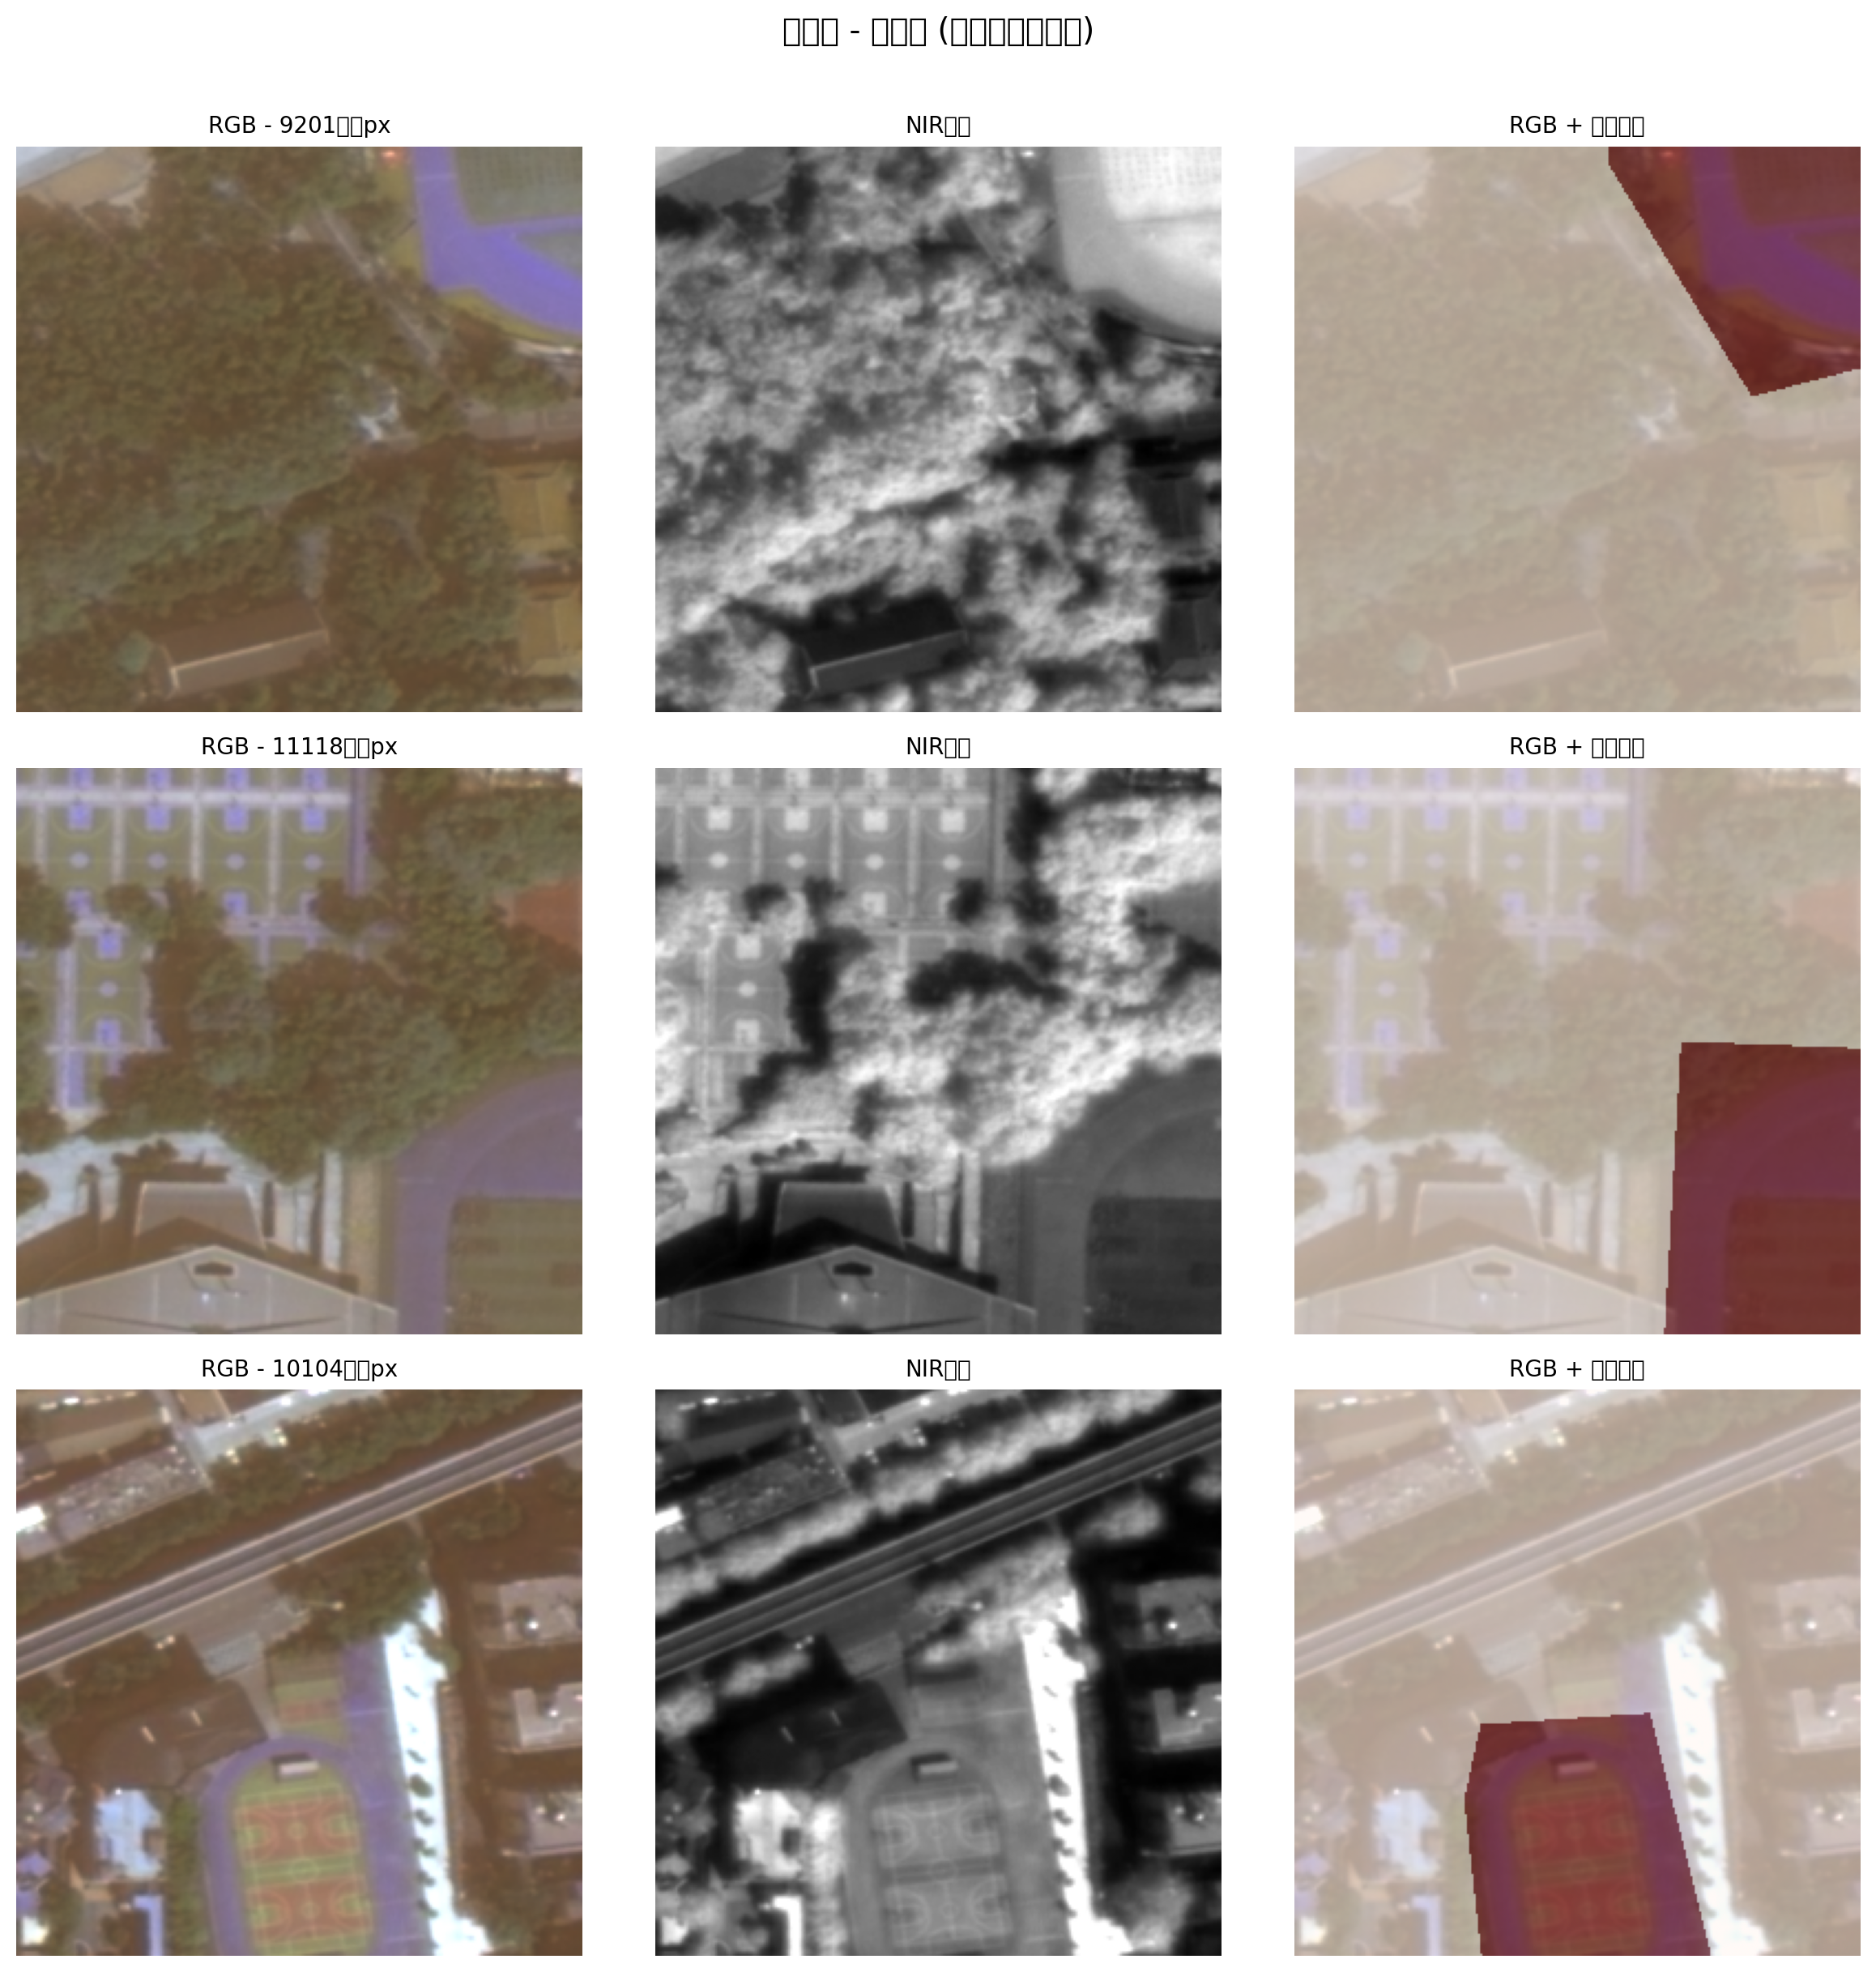
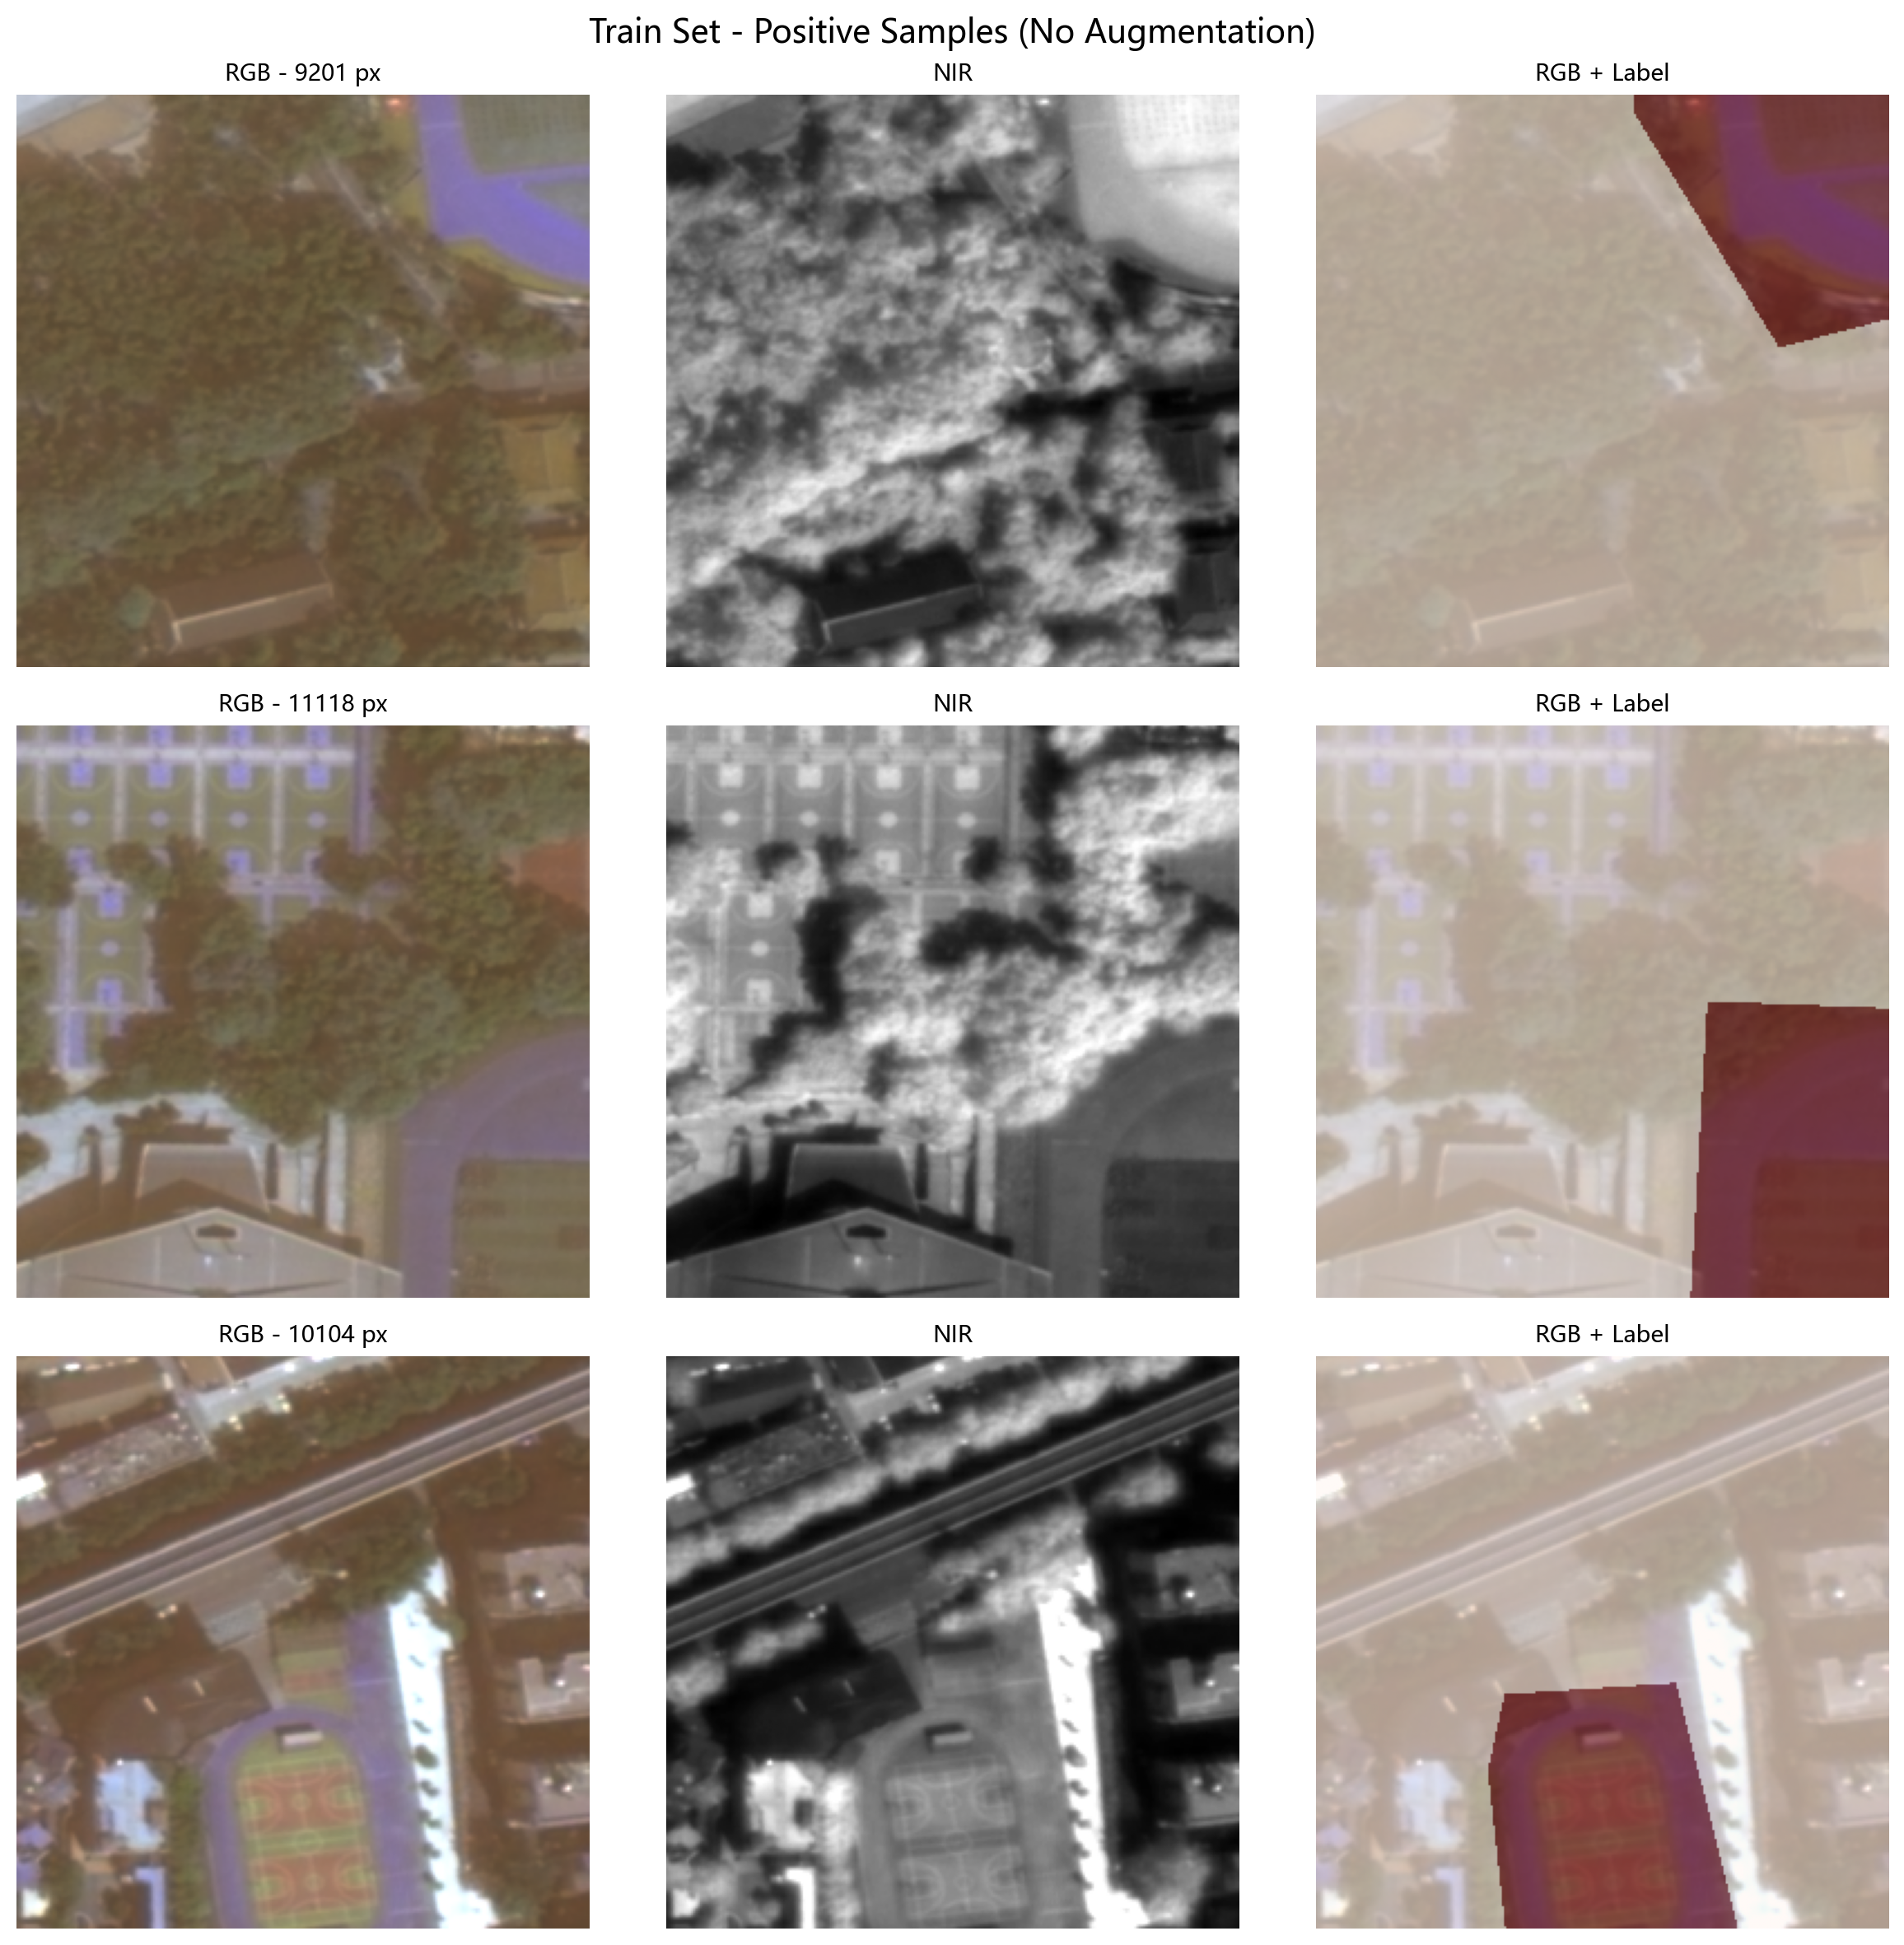
Update visualizations and add experiment report

diff --git a/实验报告-遥感影像操场检测.md b/实验报告-遥感影像操场检测.md
@@ -1,0 +1,263 @@
+# 实验报告：基于深度学习的遥感影像操场检测
+
+> **武汉大学遥感信息工程学院** | 遥感深度学习实践 | 2026年
+
+---
+
+## 摘要
+
+本实验基于珞珈三号II MSS遥感影像（4波段：Red/Green/Blue/NIR，空间分辨率约0.5m），采用U-Net语义分割模型，对武汉市区域的操场（运动场）进行自动化提取。标注数据包含75个矢量多边形面要素，经栅格化、瓦片切分后构建二分类语义分割数据集（392训练/100验证，256×256像素）。使用手写LightweightUNet模型在昇腾910ProB NPU上训练100轮，最终验证集**IoU=0.4237，F1=0.5952，Precision=0.7473，Recall=0.4945**。实验表明深度学习在操场检测任务上具有可行性，但受限于标注数量，召回率仍有较大提升空间。
+
+---
+
+## 一、任务概述
+
+### 1.1 任务目标
+
+基于珞珈三号II MSS多光谱遥感影像和人工标注的操场矢量数据，设计并训练一个深度学习语义分割模型，实现影像中操场的自动化检测。
+
+### 1.2 数据概况
+
+| 项目 | 详情 |
+|------|------|
+| 遥感影像 | 珞珈三号II MSS，28936×29425像素，4波段(R/G/B/NIR)，uint8 |
+| 空间分辨率 | ~0.5m/像素 |
+| 坐标系 | EPSG:4326 |
+| 覆盖范围 | 武汉市，约14.7km×16.7km |
+| 标注数据 | 75个MultiPolygon面要素，标注类别为"操场" |
+| 标注格式 | ESRI Geodatabase (.gdb) |
+
+---
+
+## 二、数据预处理
+
+### 2.1 矢量栅格化
+
+使用`rasterio.features.rasterize`将75个矢量多边形转为与TIF影像完全对齐的二值掩膜。操场像素值=1，背景=0。掩膜尺寸与原始影像一致（29425×28936像素），操场像素共2,922,817个，占总像素的0.34%。
+
+```
+矢量多边形 (75个) → rasterio.rasterize() → label_mask.tif
+  output_shape: (28936, 29425)  ← 与TIF完全对齐
+  fill=0, 操场=1,  dtype=uint8
+```
+
+### 2.2 瓦片切分与数据集划分
+
+使用256×256滑动窗口（stride=256，无重叠）从大图和掩膜中切分瓦片。共生成12,882个瓦片，其中仅246个（1.9%）含操场像素。
+
+**正负样本平衡策略**：保留全部246个含操场的正样本，从12,636个背景瓦片中随机采样等量（246个）作为负样本，形成1:1平衡数据集。
+
+| 数据集 | 正样本 | 负样本 | 总计 |
+|--------|--------|--------|------|
+| 训练集 | 196 | 196 | **392** |
+| 验证集 | 50 | 50 | **100** |
+
+数据以`.npy`格式保存：训练图像为`(4, 256, 256)` float32数组，掩膜为`(256, 256)` uint8二值数组。
+
+---
+
+## 三、模型设计
+
+### 3.1 模型架构
+
+采用**LightweightUNet**模型，经典的编码器-解码器结构配合跳跃连接：
+
+```
+输入 (4, 256, 256)
+  │
+  ├─ Encoder: DoubleConv(4→64) → MaxPool → DoubleConv(64→128) → MaxPool
+  │           → DoubleConv(128→256) → MaxPool → DoubleConv(256→512) → MaxPool
+  │
+  ├─ Bottleneck: DoubleConv(512→1024)
+  │
+  └─ Decoder: ConvTranspose2d + DoubleConv (×4层)
+     跳跃连接 ← 编码器对应层特征图拼接
+  │
+  └─ Conv2d(64→1) → Sigmoid
+  │
+输出 (1, 256, 256) 概率图 [0,1]
+```
+
+| 参数 | 值 |
+|------|-----|
+| 总参数量 | 31,038,209 |
+| 输入通道 | 4 (R/G/B/NIR) |
+| 输出 | 1 (Sigmoid概率) |
+| 基础特征数 | [64, 128, 256, 512] |
+| DoubleConv | (Conv3×3→BN→ReLU)×2 |
+
+### 3.2 为什么不用预训练模型
+
+尝试了`segmentation_models_pytorch`的U-Net+ResNet34（ImageNet预训练），但`torchvision::nms`算子在昇腾NPU版PyTorch中不存在，导致无法加载。因此采用纯PyTorch手写U-Net，在NPU上可直接运行。
+
+### 3.3 4波段输入处理
+
+归一化策略：各波段分别标准化
+
+```python
+mean = [0.485, 0.456, 0.406, 0.350]  # RGB(ImageNet) + NIR(均值)
+std  = [0.229, 0.224, 0.225, 0.150]
+image = (image / 255.0 - mean) / std
+```
+
+---
+
+## 四、训练配置
+
+### 4.1 超参数
+
+| 超参数 | 值 | 说明 |
+|--------|-----|------|
+| Batch Size | 16 | NPU单卡可承受 |
+| Epochs | 100 | 实际86轮达到最优 |
+| Learning Rate | 3e-5 | 低于默认1e-4，防collapse |
+| Optimizer | AdamW | weight_decay=1e-5 |
+| LR Scheduler | ReduceLROnPlateau | mode=max, factor=0.5, patience=10 |
+| Early Stopping | patience=20 | 未触发(最佳在epoch 86) |
+| Gradient Clipping | max_norm=1.0 | 防止NPU数值不稳定导致梯度爆炸 |
+| 损失函数 | 0.5×Dice + 0.5×BCE | 组合损失处理正负样本不平衡 |
+
+### 4.2 数据增强
+
+训练时使用`albumentations`进行在线增强：
+
+| 增强方式 | 概率 |
+|----------|------|
+| 水平翻转 | 0.5 |
+| 垂直翻转 | 0.5 |
+| 随机90°旋转 | 0.5 |
+| 亮度/对比度调整 | 0.3 |
+| 高斯模糊 | 0.2 |
+| 高斯噪声 | 0.2 |
+
+验证集仅做归一化，不做增强。
+
+### 4.3 训练环境
+
+| 项目 | 配置 |
+|------|------|
+| 服务器 | 华为昇腾910ProB NPU ×1 |
+| CPU | 16核 / 64GB内存 |
+| PyTorch | 2.4.0 (NPU适配版) |
+| torch_npu | 2.4.0 |
+| CANN | 8.3.RC1 |
+
+---
+
+## 五、实验结果
+
+### 5.1 验证集评估
+
+| 指标 | 值 | 说明 |
+|------|-----|------|
+| **IoU** | **0.4237** | 预测与真值重叠42.4% |
+| **Precision** | **0.7473** | 预测为操场的像素中74.7%正确 |
+| **Recall** | **0.4945** | 真实操场像素中找回49.5% |
+| **F1-Score** | **0.5952** | 综合衡量精确率和召回率 |
+| Pixel Accuracy | 0.9549 | 整体像素准确率（背景多，虚高） |
+
+混淆矩阵统计：
+
+|  | 预测=正 | 预测=负 |
+|--|---------|---------|
+| **真值=正** | TP: 217,501 | FN: 222,328 |
+| **真值=负** | FP: 73,541 | TN: 6,040,230 |
+
+### 5.2 训练曲线
+
+![训练曲线](output/visualizations/training_curves.png)
+
+**Loss曲线（左）**：训练损失和验证损失均稳定下降。前30轮收敛较快，之后趋于平缓。验证损失在epoch 86附近达到最低点后略有回升，表明模型开始过拟合。
+
+**IoU/F1曲线（右）**：两个指标整体呈上升趋势，从epoch 1的IoU≈0.07逐步提升至epoch 86的IoU≈0.42。前期（epoch 1-30）增长缓慢（0.07→0.19），中期（epoch 30-60）加速提升（0.19→0.33），后期（epoch 60-86）继续上升至峰值（0.42），之后小幅回落至0.35左右。
+
+![训练历史](output/visualizations/training_history.png)
+
+关键节点数据：
+
+| 阶段 | Epoch | Val IoU | Val F1 |
+|------|-------|---------|--------|
+| 初始学习 | 1 | 0.074 | 0.137 |
+| 缓慢提升 | 14 | 0.107 | 0.193 |
+| 突破 | 29 | 0.194 | 0.324 |
+| 加速提升 | 58 | 0.325 | 0.491 |
+| **最佳** | **86** | **0.424** | **0.595** |
+| 过拟合回落 | 100 | 0.350 | 0.519 |
+
+训练100轮总耗时约8分钟（NPU加速），每轮约4.5秒。
+
+### 5.3 结果可视化
+
+### 5.3 数据预览
+
+![正样本预览](output/visualizations/raw_positive_samples.png)
+
+![正样本分布](output/visualizations/positive_distribution.png)
+
+---
+
+## 六、结果分析
+
+### 6.1 优点
+
+- **精确率74.7%**：模型预测为操场的区域中，四分之三确实为操场，误检较少。
+- **训练稳定性**：梯度裁剪和低学习率策略有效避免了NPU上的训练崩溃（初次尝试时IoU从0.08 collapse到0）。
+- **NPU适配**：成功在昇腾NPU上完成训练，验证了国产AI芯片在遥感语义分割任务上的可行性。
+
+### 6.2 不足与原因分析
+
+- **召回率仅49.5%**：约一半操场像素被漏检。可能原因：
+  - 标注样本有限（仅75个多边形），不足以覆盖操场形状/颜色的多样性
+  - 操场边缘像素模糊，模型倾向于保守预测（高精确率、低召回率）
+  - 正负样本1:1平衡策略可能丢弃了过多有用负样本的上下文信息
+- **IoU 0.42仅为中等水平**：距离实用化（IoU>0.7）仍有差距
+- **模型未使用预训练权重**：受NPU兼容性限制，31M参数从零开始训练
+
+### 6.3 改进方向
+
+1. **增加标注数据**：补充小型操场、不规则操场的标注
+2. **模型优化**：解决torchvision/NPU兼容问题后使用预训练U-Net+ResNet34
+3. **损失函数调整**：增大Dice Loss权重（当前5:5），提升召回率
+4. **后处理**：使用CRF或形态学操作优化预测边界
+5. **更大输入尺寸**：256×256可能不足以捕获操场完整上下文，尝试512×512
+
+---
+
+## 七、代码结构与使用说明
+
+### 7.1 项目文件
+
+| 文件 | 功能 |
+|------|------|
+| `config.py` | 全局配置，路径和超参数 |
+| `rasterize_labels.py` | 矢量GDB多边形→栅格掩膜 |
+| `tile_dataset.py` | 大图切分256×256瓦片 |
+| `dataset.py` | PyTorch Dataset + albumentations增强 |
+| `model.py` | LightweightUNet + 设备自动检测(NPU/CUDA/CPU) |
+| `train.py` | Dice+BCE组合损失，训练循环含早停 |
+| `metrics.py` | SegmentationMetrics (IoU/Precision/Recall/F1) |
+| `predict.py` | 验证集评估与大图滑动窗口推理 |
+
+### 7.2 快速复现
+
+```bash
+git clone https://github.com/JinhuiChan/playground-detection.git
+cd playground-detection
+pip install -r requirements.txt
+python train.py --model_type lightweight --batch_size 16 --epochs 100
+python predict.py --mode eval --model_type lightweight --checkpoint ./checkpoints/best_model.pth
+```
+
+### 7.3 设备支持
+
+模型自动检测运行设备：**昇腾NPU > NVIDIA CUDA > CPU**。在NPU环境下需先`source` CANN环境变量。
+
+---
+
+## 八、结论
+
+本实验完成了基于深度学习的遥感影像操场检测全流程，从矢量标注栅格化、瓦片数据集构建到U-Net模型训练与评估。最终IoU达到0.42，验证了语义分割方法在操场提取任务上的可行性。受限于标注数量和NPU环境下的模型选择，结果有较大提升空间。后续工作重点在于扩充标注数据和解决预训练模型的NPU适配问题。
+
+---
+
+*实验代码及数据集开源在：https://github.com/JinhuiChan/playground-detection*